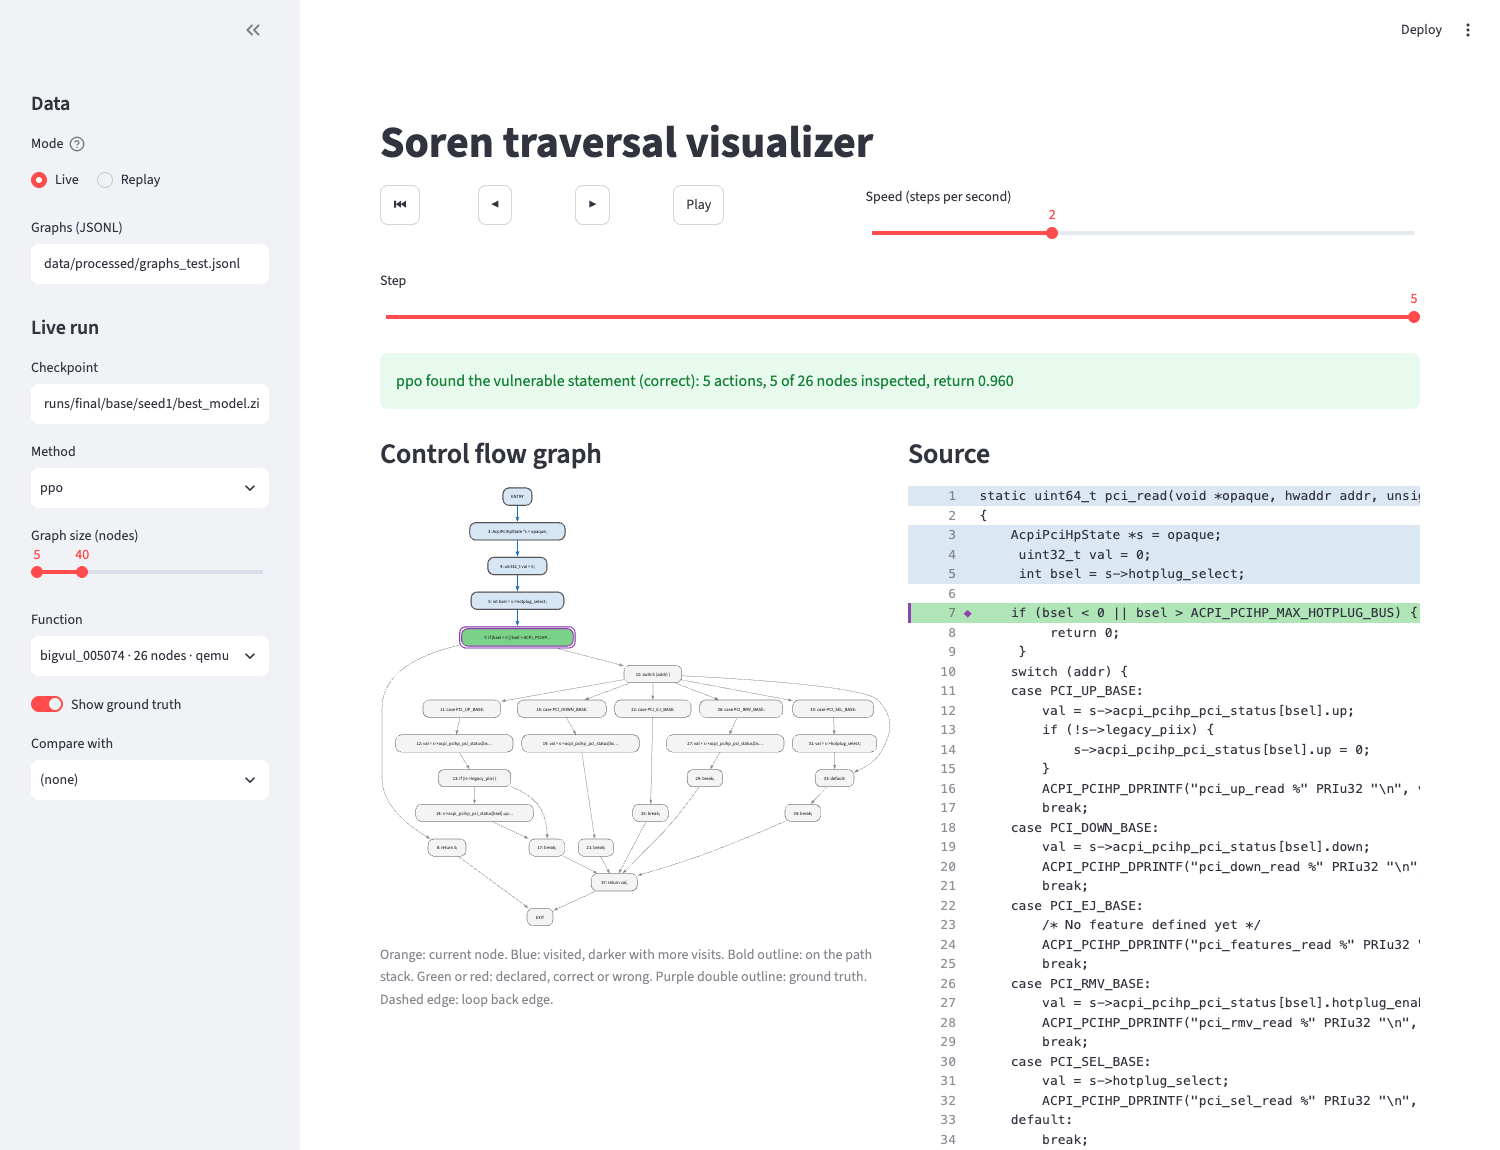
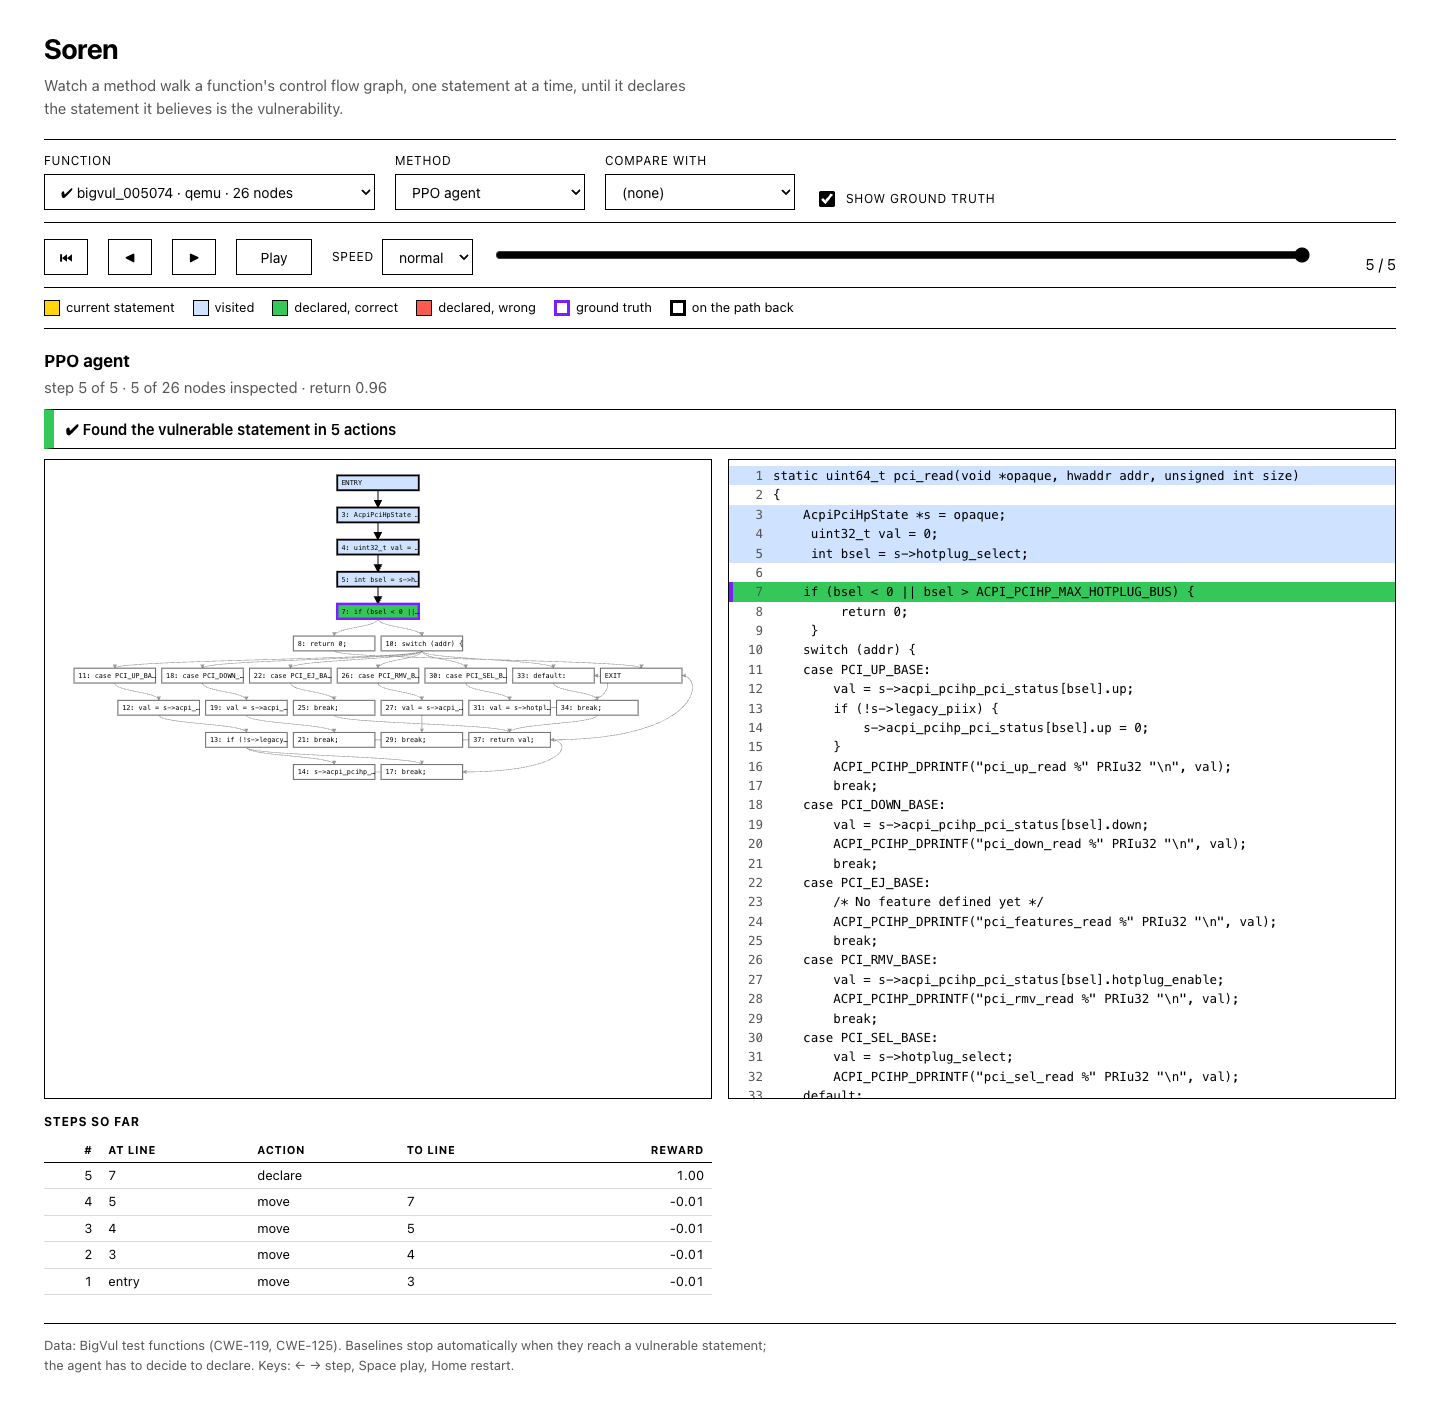
refactor(viz): replace the Streamlit app with the web visualizer
Remove the Streamlit app, its tests and the streamlit and graphviz
dependencies. The README section on visualizing a traversal now covers
the web app and the terminal replay, and the demo script follows.

diff --git a/tests/test_viz.py b/tests/test_viz.py
@@ -1,12 +1,8 @@
-from pathlib import Path
-
 import numpy as np
 import pytest
 from helpers import diamond_graph, loop_graph
-from streamlit.testing.v1 import AppTest
 
-from soren.baselines import BFS, DFS
-from soren.data.schema import write_jsonl
+from soren.baselines import DFS
 from soren.data.synthetic import SyntheticConfig, generate_dataset
 from soren.env.cfg_nav_env import EnvConfig
 from soren.viz.render import (
@@ -26,7 +22,6 @@ from soren.viz.render import (
 )
 from soren.viz.trace import Trace, TraceStep
 
-APP = Path(__file__).parent.parent / "soren" / "viz" / "app.py"
 K = EnvConfig().k
 
 
@@ -161,138 +156,3 @@ def test_step_table_and_labels():
     assert labels[-2:] == ["backtrack", "declare"] and len(labels) == K + 2
     text = outcome_text(graph, trace)
     assert "found the vulnerable statement" in text and "4 of 6 nodes" in text
-
-
-@pytest.fixture
-def demo(tmp_path):
-    graphs = generate_dataset(6, seed=4, cfg=SyntheticConfig(min_nodes=8, max_nodes=20))
-    graphs_path = tmp_path / "val.jsonl"
-    write_jsonl(graphs, graphs_path)
-    traces = tmp_path / "traces"
-    for searcher in (DFS(), BFS()):
-        for graph in graphs:
-            searcher.trace(graph, 100, rng()).save(
-                traces / searcher.name / f"{graph.sample_id}.json"
-            )
-    # One policy-style trace with probabilities, to exercise the probability chart.
-    trace = DFS().trace(graphs[0], 100, rng())
-    for step in trace.steps:
-        step.probs = [1.0 / (K + 2)] * (K + 2)
-        step.value = 0.5
-    trace.method = "ppo"
-    trace.save(traces / "ppo" / f"{graphs[0].sample_id}.json")
-    return graphs, graphs_path, traces
-
-
-def run_app(monkeypatch, graphs_path, traces) -> AppTest:
-    monkeypatch.setenv("SOREN_GRAPHS", str(graphs_path))
-    monkeypatch.setenv("SOREN_TRACES", str(traces))
-    app = AppTest.from_file(str(APP), default_timeout=30)
-    app.run()
-    assert not app.exception, app.exception
-    return app
-
-
-def test_app_replays_an_episode(monkeypatch, demo):
-    graphs, graphs_path, traces = demo
-    app = run_app(monkeypatch, graphs_path, traces)
-    assert app.selectbox(key="method").options == ["bfs", "dfs", "ppo"]
-    options = app.selectbox(key="graph").options
-    assert [o.split(" · ")[0] for o in options] == [g.sample_id for g in graphs]
-    assert options[0] == f"{graphs[0].sample_id} · {graphs[0].num_nodes} nodes"
-    assert app.session_state["step"] == 0
-    assert any("Step 0 of" in c.value for c in app.caption)
-
-    app.button(key="next").click().run()
-    app.button(key="next").click().run()
-    assert not app.exception and app.session_state["step"] == 2
-    assert len(app.dataframe[0].value) == 2
-    app.button(key="prev").click().run()
-    assert app.session_state["step"] == 1
-    app.button(key="first").click().run()
-    assert app.session_state["step"] == 0
-
-
-def test_app_shows_the_outcome_at_the_end_and_resets_on_a_new_episode(monkeypatch, demo):
-    graphs, graphs_path, traces = demo
-    app = run_app(monkeypatch, graphs_path, traces)
-    total = len(Trace.load(traces / "bfs" / f"{graphs[0].sample_id}.json").steps)
-    app.slider(key="step").set_value(total).run()
-    assert not app.exception
-    assert "bfs found the vulnerable statement" in app.success[0].value
-
-    app.selectbox(key="graph").select(graphs[1].sample_id).run()
-    assert app.session_state["step"] == 0  # a new episode starts from the beginning
-    app.selectbox(key="method").select("ppo").run()
-    assert not app.exception
-    assert [o.split(" · ")[0] for o in app.selectbox(key="graph").options] == [graphs[0].sample_id]
-    assert any("Policy at this step" in c.value for c in app.caption)
-
-
-def test_app_filters_and_ground_truth_toggle(monkeypatch, demo):
-    graphs, graphs_path, traces = demo
-    app = run_app(monkeypatch, graphs_path, traces)
-    app.radio(key="outcome").set_value("failure").run()
-    assert not app.exception
-    assert "No episode matches the filters." in [i.value for i in app.info]
-    app.radio(key="outcome").set_value("all").run()
-    app.toggle(key="truth").set_value(True).run()
-    assert not app.exception
-    assert any("Ground truth is shown" in c.value for c in app.caption)
-
-
-def test_app_explains_missing_data(monkeypatch, tmp_path, demo):
-    _, graphs_path, _ = demo
-    app = run_app(monkeypatch, tmp_path / "missing.jsonl", tmp_path / "none")
-    assert "Graph file not found" in app.info[0].value
-    app = run_app(monkeypatch, graphs_path, tmp_path / "none")
-    assert "Traces directory not found" in app.info[0].value
-    (tmp_path / "empty").mkdir()
-    app = run_app(monkeypatch, graphs_path, tmp_path / "empty")
-    assert "No traces in" in app.info[0].value
-
-
-def test_compare_mode_shows_two_methods_advancing_together(monkeypatch, demo):
-    graphs, graphs_path, traces = demo
-    app = run_app(monkeypatch, graphs_path, traces)
-    compare = app.selectbox(key="compare")
-    assert compare.options == ["(none)", "dfs", "ppo"]  # bfs is the primary method
-    assert not app.metric  # single view has no side-by-side counters
-
-    compare.select("dfs").run()
-    assert not app.exception
-    assert [h.value for h in app.subheader] == ["bfs", "dfs"]
-    assert app.session_state["step"] == 0
-    assert [m.value for m in app.metric][::2] == [f"1 of {graphs[0].num_nodes}"] * 2
-
-    bfs = Trace.load(traces / "bfs" / f"{graphs[0].sample_id}.json")
-    dfs = Trace.load(traces / "dfs" / f"{graphs[0].sample_id}.json")
-    longest = max(len(bfs.steps), len(dfs.steps))
-    assert app.slider(key="step").max == longest
-
-    app.button(key="next").click().run()
-    app.button(key="next").click().run()
-    actions = [m.value for m in app.metric][1::2]
-    assert actions == [f"2 of {len(bfs.steps)}", f"2 of {len(dfs.steps)}"]
-
-    # At the end both outcomes are shown; the shorter episode waited at its last step.
-    app.slider(key="step").set_value(longest).run()
-    assert not app.exception
-    banners = [b.value for b in (*app.success, *app.error)]
-    assert any(b.startswith("bfs ") for b in banners) and any(b.startswith("dfs ") for b in banners)
-    actions = [m.value for m in app.metric][1::2]
-    assert actions == [
-        f"{len(bfs.steps)} of {len(bfs.steps)}",
-        f"{len(dfs.steps)} of {len(dfs.steps)}",
-    ]
-
-    app.selectbox(key="compare").select("(none)").run()
-    assert not app.exception and not app.metric
-
-
-def test_compare_option_is_hidden_when_no_other_method_has_the_graph(monkeypatch, tmp_path, demo):
-    graphs, graphs_path, _ = demo
-    only = tmp_path / "only"
-    DFS().trace(graphs[0], 100, rng()).save(only / "dfs" / f"{graphs[0].sample_id}.json")
-    app = run_app(monkeypatch, graphs_path, only)
-    assert not [box for box in app.selectbox if box.key == "compare"]

diff --git a/soren/viz/render.py b/soren/viz/render.py
@@ -1,7 +1,8 @@
 """Turn a graph and a position in a trace into things to draw.
 
-Everything here is a pure function of ``(graph, trace, step)``, so it can be tested without a
-browser. ``step`` counts actions already taken: 0 is the start, ``len(trace.steps)`` the end.
+Everything here is a pure function of ``(graph, trace, step)``. The terminal demo and the
+exporter for the web visualizer build on it. ``step`` counts actions already taken: 0 is the
+start, ``len(trace.steps)`` the end.
 """
 
 from __future__ import annotations

diff --git a/README.md b/README.md
@@ -28,31 +28,44 @@ per-statement features can say, not the search policy. On synthetic graphs with 
 signal the same agent localizes 98% while inspecting fewer nodes than DFS. The report has the
 details and the caveats.
 
-## Presenting it
+## Visualizing a traversal
 
-Two ways to show the agent working. Both need the processed test graphs
-(`data/processed/graphs_test.jsonl`) and a trained checkpoint
-(`runs/final/base/seed1/best_model.zip`); see the sections below for how to produce them.
-Neither needs Joern or a network connection at presentation time.
+### Web app
 
-### In the browser
+`web-app/` is a static page that replays how each method walked a function: the control flow
+graph and the source side by side, stepping together.
+
+![The web visualizer after the agent has found the flaw](docs/images/visualizer.png)
 
 ```bash
-streamlit run soren/viz/app.py -- --live --graphs data/processed/graphs_test.jsonl
+open web-app/index.html          # macOS; or open the file in any browser
 ```
 
-![The visualizer after the agent has found the flaw](docs/images/visualizer.png)
+It needs no server and no network. If your browser blocks local scripts, serve the folder
+instead: `python -m http.server -d web-app 8000`, then open `http://localhost:8000`.
 
-The page opens at `http://localhost:8501`. In the sidebar:
+- **Function** selects a test function; `✔` and `✘` show whether the agent localizes it.
+- **Method** is the trained agent or a baseline (depth-first, breadth-first, line order,
+  heuristic-first). **Compare with** shows a second method beside the first.
+- **▶ / ◀** step one action, **Play** runs the episode, and the slider scrubs through it.
+  Keys: `←` `→` step, `Space` play, `Home` restart.
+- **Show ground truth** outlines the statement the fix changed. Leave it off until the method
+  has declared.
 
-1. **Function** picks a test function. Keep the size slider low so the graph is readable.
-2. **Method** is `ppo` for the trained agent, or a baseline such as `dfs`.
-3. Press **▶** to advance one action, or **Play** to run. The graph and the source move
-   together; under them are the steps so far and the agent's action probabilities.
-4. Switch on **Show ground truth** once the agent has declared, to reveal the answer.
-5. **Compare with** puts a second method beside the first on the same function.
+The page is black and white; colour is used only for the state of the walk, as the key under
+the controls explains. Under the graph it lists the actions taken so far and, for the agent,
+the probability it gave each available action.
 
-### In the terminal
+The episodes come from `web-app/data/episodes.js`. To regenerate it from a trained checkpoint
+and the processed test graphs:
+
+```bash
+python scripts/export_webapp.py
+```
+
+### Terminal
+
+The same replay in a terminal, run live from the checkpoint:
 
 ```bash
 python -m soren.demo                    # the agent on a function it gets right
@@ -64,12 +77,11 @@ python -m soren.demo --graph bigvul_048191 --method heuristic_first
 ```
 
 The source is printed with the current line highlighted, visited lines marked with `·`, and
-the declaration marked `✔` or `✘`. The ground truth (`◆`) appears only at the end.
+the declaration marked `✔` or `✘`. The ground truth (`◆`) appears only at the end. With no
+dataset or checkpoint, `python -m soren.demo --synthetic` runs depth-first search on a
+generated function.
 
-With no dataset or checkpoint at all, `python -m soren.demo --synthetic` runs depth-first
-search on a generated function, which is enough to show the mechanics.
-
-A five-minute talk track built around these is in [`docs/demo.md`](docs/demo.md).
+These commands need the virtualenv from Setup to be active.
 
 ## Setup
 
@@ -173,7 +185,7 @@ Each run writes its resolved configuration, the best and final checkpoints, the 
 history and TensorBoard logs to `runs/<name>/`. Hyperparameters live in `configs/ppo.yaml`,
 environment and reward settings in `configs/env.yaml`.
 
-## Evaluation and visualizer
+## Evaluation
 
 ```bash
 # Baselines and a checkpoint through one harness; per-episode results go to Parquet.
@@ -184,16 +196,10 @@ python scripts/evaluate.py --graphs data/synthetic/val.jsonl --split val \
 # Confidence intervals and paired tests against a reference method.
 python scripts/summarize_results.py --results runs/synthetic-demo/eval_val.parquet --reference ppo
 
-# Record traces, then replay them in the browser.
+# Record step-by-step traces as JSON, one per method and graph.
 python scripts/make_traces.py --graphs data/synthetic/val.jsonl --limit 20 --methods dfs bfs \
     --checkpoints runs/synthetic-demo/best_model.zip --out runs/synthetic-demo/traces
-streamlit run soren/viz/app.py -- --graphs data/synthetic/val.jsonl \
-    --traces runs/synthetic-demo/traces
 ```
-
-The visualizer shows the control flow graph next to the source and steps through an episode.
-Ground truth stays hidden until you switch it on, and "Compare with" puts a second method
-beside the first.
 
 ## Reproducing the BigVul experiments
 
@@ -237,7 +243,8 @@ To try the pipeline without BigVul or Joern, use the synthetic graphs in the Tra
 | `soren/agents` | PPO and DQN agents |
 | `soren/baselines` | Traversal baselines and reference models |
 | `soren/eval` | Evaluation harness, metrics and statistics |
-| `soren/viz` | Trace format and traversal visualizer |
+| `soren/viz` | Trace format and replay helpers |
+| `web-app` | Static web visualizer |
 | `scripts` | Data pipeline, training and evaluation entry points |
 | `configs` | YAML configuration |
 | `experiments` | Experiment notes, result tables and figures |

diff --git a/docs/demo.md b/docs/demo.md
@@ -4,11 +4,10 @@ The demo runs offline from saved traces: it needs no training, no Joern and no n
 
 ## Before the demo
 
-Start the visualizer in live mode. It runs each method on the spot, so there is nothing to
-generate beforehand:
+Open the web visualizer; it is a static page with the episodes already exported:
 
 ```bash
-streamlit run soren/viz/app.py -- --live --graphs data/processed/graphs_test.jsonl
+open web-app/index.html
 ```
 
 As a fallback that needs no browser, the same walk-through works in a terminal with
@@ -17,11 +16,11 @@ As a fallback that needs no browser, the same walk-through works in a terminal w
 Pick two functions in the sidebar ahead of time, both under about 30 nodes so the graph fits
 on screen, and note their ids:
 
-- **A success:** `python -m soren.demo --list` shows which functions the agent gets right.
+- **A success:** in the Function list, `✔` marks the functions the agent gets right.
 - **A failure:** ideally one where the agent declares a statement with a dangerous call that
   is not the flaw.
 
-With the checkpoint above (`runs/final/base/seed1`), functions that fit these descriptions
+With the exported checkpoint (`runs/final/base/seed1`), functions that fit these descriptions
 include `bigvul_005074` and `bigvul_048191` (successes) and `bigvul_015735` and
 `bigvul_031552` (failures). Look at them before the demo and keep the two that read best.
 
@@ -34,19 +33,19 @@ another window.
 has a known vulnerability. Detectors say *that* it is vulnerable. We want to know *where*,
 and we treat finding it as walking the control flow graph."
 
-**2. A baseline (45 seconds).** Method `dfs`. Press Play. "Depth-first search follows the
+**2. A baseline (45 seconds).** Method "Depth-first search". Press Play. "Depth-first search follows the
 first branch as far as it goes, then backs up. It has no idea what it is looking for; under
 the oracle stop it simply halts when it stands on the flaw." Point at the node count.
 
-**3. The agent, answer hidden (60 seconds).** Method `ppo`, same function. Step through with
-the ▶ button. At each step point to the probability chart: "These are the agent's options:
+**3. The agent, answer hidden (60 seconds).** Method "PPO agent", same function. Step through with
+the ▶ button. At each step point to "What the agent is weighing": "These are the agent's options:
 the successors, backtrack, or declare. It sees only the current statement and one step
 ahead." Stop when it declares.
 
 **4. Reveal (20 seconds).** Switch on "Show ground truth". The declared node turns green and
 the purple outline lands on it.
 
-**5. Side by side (40 seconds).** Set "Compare with" to `dfs`. Drag the step slider. "Same
+**5. Side by side (40 seconds).** Set "Compare with" to "Depth-first search". Drag the step slider. "Same
 function, same controls: the agent commits after a handful of statements, DFS is still
 exploring."
 
@@ -68,8 +67,8 @@ The next step is giving statements context: data flow, or a graph encoder."
 
 ## If something goes wrong
 
-- **The browser demo will not start:** use the terminal demo, `python -m soren.demo --step`.
-- **"Checkpoint not found" in the sidebar:** set the path to a trained `best_model.zip`; the
-  baselines still work without one.
-- **A graph is too large to read:** lower the "Graph size" slider's upper end.
+- **The page is blank or says "No data found":** run `python scripts/export_webapp.py`, or
+  serve the folder with `python -m http.server -d web-app 8000`.
+- **No browser at all:** use the terminal demo, `python -m soren.demo --step`.
+- **A graph is too large to read:** pick a function with fewer nodes; the count is in the list.
 - **No time for the live walk-through:** show steps 4, 6 and 7 only.
